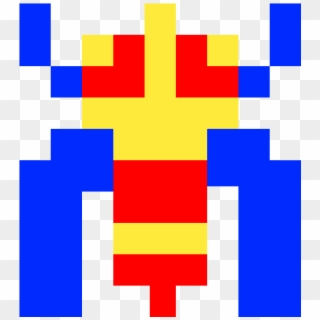
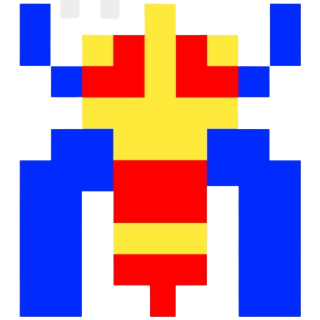
changed some images to transparents

diff --git a/src/gameComponent/MovableObject/BallBreakout.java b/src/gameComponent/MovableObject/BallBreakout.java
@@ -13,7 +13,7 @@ public class BallBreakout extends MovableObject{
 	
 	public static String BALL_IMAGE = "resources/ball.gif";
 	public static final int BALL_SIZE = 20;
-	public static final int VELOCITY_NUM_RANGE = 5; 
+	public static final int VELOCITY_NUM_RANGE = 30; 
 	public static final double POWER_UP_SPEED_MULTIPLIER = 1.2;
 	public static final int X_START_VELOCITY = 25;
 	public static final int Y_START_VELOCITY = 100;
@@ -73,15 +73,15 @@ public class BallBreakout extends MovableObject{
 	private void reverseX(boolean isPaddle) {
 		//case 1: collides with paddle's left side.
 		if (isPaddle && myVelocity.getX() > 0) {
-			setVelocity(-Math.abs(myVelocity.getX()), addRandomToYVelocity());
+			setVelocity(-Math.abs(myVelocity.getX()), myVelocity.getY());
 		}
 		//case 2: collides with paddle's right side.
 		else if (isPaddle && myVelocity.getX() < 0) {
-			setVelocity(Math.abs(myVelocity.getX()), addRandomToYVelocity());
+			setVelocity(Math.abs(myVelocity.getX()), myVelocity.getY());
 		}
 		//case 3: collides with Bricks.
 		else {
-			setVelocity(-myVelocity.getX() + getRandomInRange(-5,5), addRandomToYVelocity());
+			setVelocity(-myVelocity.getX() + getRandomInRange(-5,5), myVelocity.getY());
 		}
 	}
 
@@ -118,10 +118,6 @@ public class BallBreakout extends MovableObject{
 //		myView.setX(rectangle.getX() - myView.getFitWidth());
 //	}
 //	
-	//introduces some randomness to the Y Velocity. 
-	private double addRandomToYVelocity() {
-		return myVelocity.getY() + getRandomInRange(-VELOCITY_NUM_RANGE, VELOCITY_NUM_RANGE);
-	}
 	
 	//introduces some randomness to the X Velocity. 
 	private double addRandomToXVelocity() {
